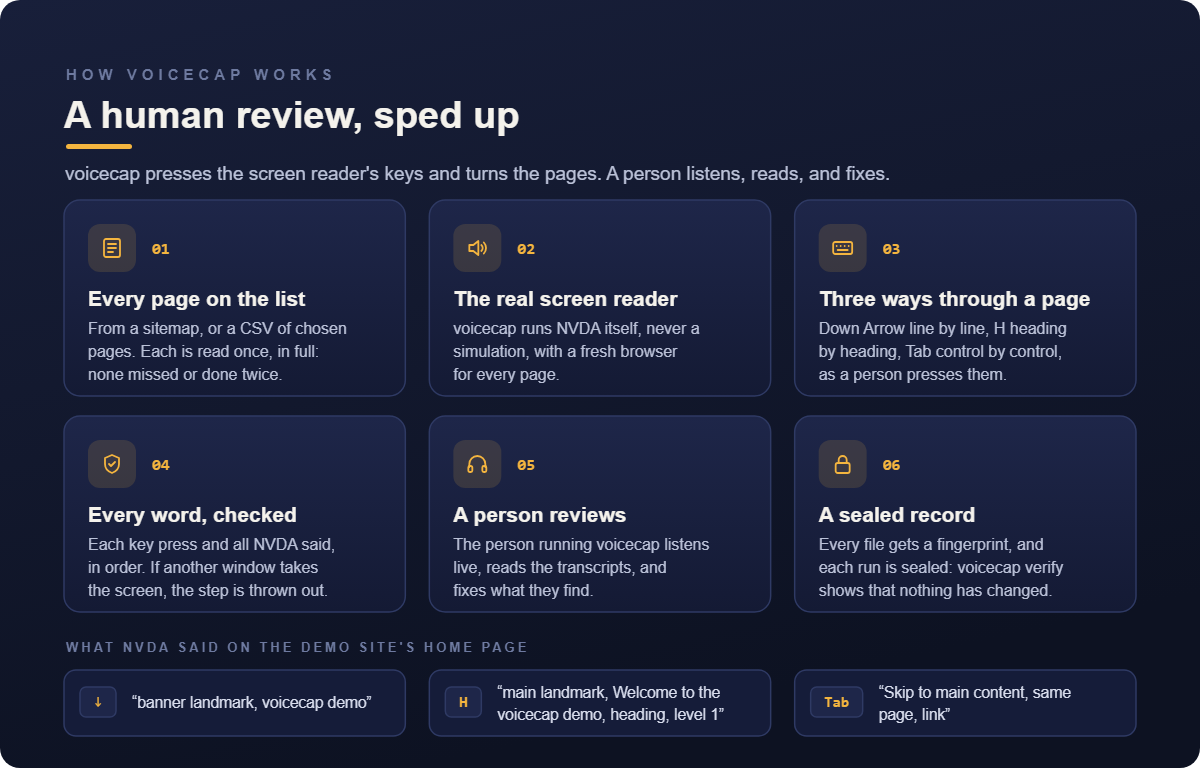
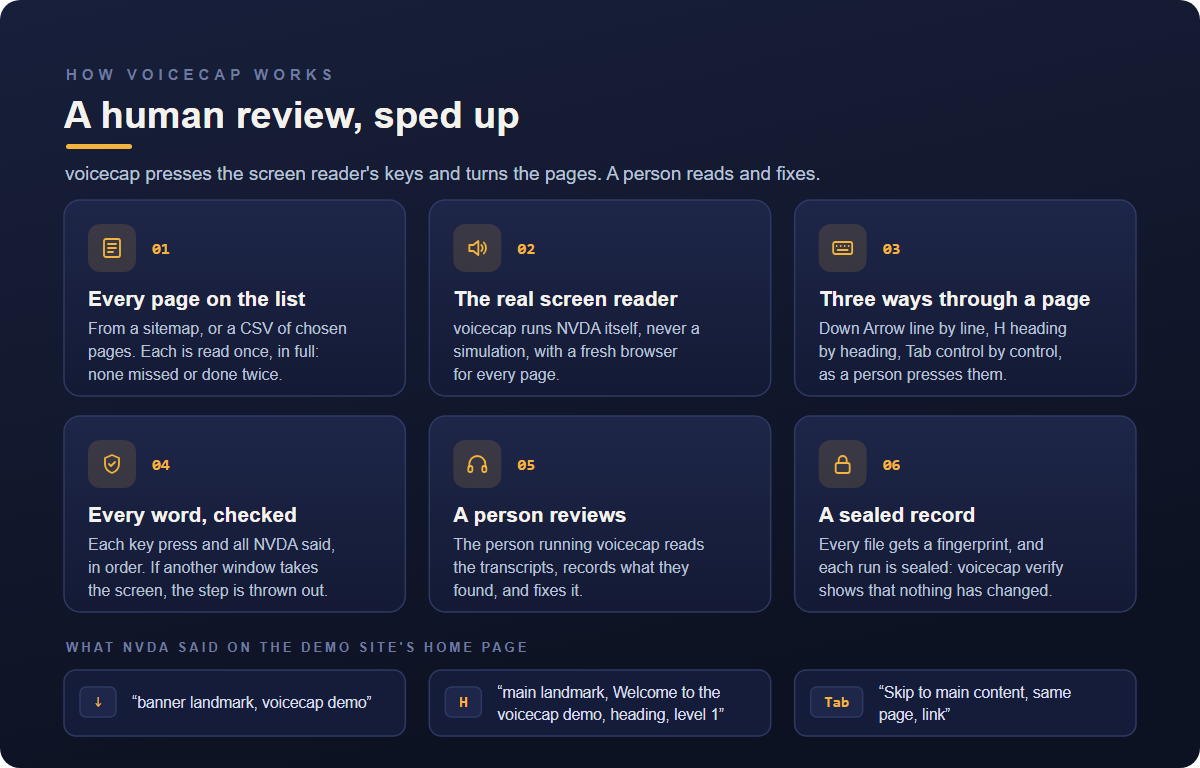
Redraw the diagram, and keep a nameless "heard part" label quiet

diff --git a/test/share-html-pages.test.ts b/test/share-html-pages.test.ts
@@ -291,6 +291,13 @@ describe("renderPages", () => {
     expect(cardsIn(renderPages(model))[1]).not.toMatch(/Heard|Reviewed|Issue found/);
   });
 
+  it("keeps part of a session quiet when no name was recorded, too", async () => {
+    const model = withCard(await demoModel(), 0, { reviewChips: ["Heard part of this session"] });
+    const [card = ""] = cardsIn(renderPages(model));
+
+    expect(card).toContain('<span class="chip c-quiet">Heard part of this session</span>');
+  });
+
   it("marks a card whose flags are as its run recorded them, not the current rules'", async () => {
     const model = await demoModel();
     const [card = ""] = cardsIn(renderPages(withCard(model, 0, { flagsAsRecorded: true })));

diff --git a/src/share/html/pages.ts b/src/share/html/pages.ts
@@ -101,7 +101,8 @@ function resultKind(card: PageCard): Kind {
 /** A review chip's color: a problem is amber, part of a session is quiet, the rest is good. */
 function reviewKind(words: string): Kind {
   if (words === "Issue found" || words === "Changed since review") return "warn";
-  return words.endsWith("heard part of this session") ? "quiet" : "ok";
+  // With a name the chip ends "… heard part of this session"; with none it starts "Heard part".
+  return /heard part of this session$/i.test(words) ? "quiet" : "ok";
 }
 
 /**

diff --git a/README.md b/README.md
@@ -1283,7 +1283,7 @@ Guidepup changes its API across versions and releases often, so voicecap pins `@
 ## Known limitations
 
 <details>
-<summary>Timing, a portable NVDA, English phrasing, the computer being voicecap's during a run, and more</summary>
+<summary>NVDA's fast speech during a run, timing, a portable NVDA, English phrasing, the computer being voicecap's during a run, and more</summary>
 
 - **NVDA speaks very fast during a run.** voicecap runs Guidepup's own copy of NVDA, which Guidepup sets to NVDA's top speed, and Guidepup silences NVDA before each key press, so a long line is cut off. The transcripts have every word. To hear a page at your own speed, run NVDA yourself: see [Manual NVDA sessions](#manual-nvda-sessions).
 - **Timing.** Driving a screen reader is timing-sensitive: a slow page or a busy machine can produce different output between runs. voicecap captures each keystroke's speech until a second of silence, which absorbs most of this, but compare runs with care.
